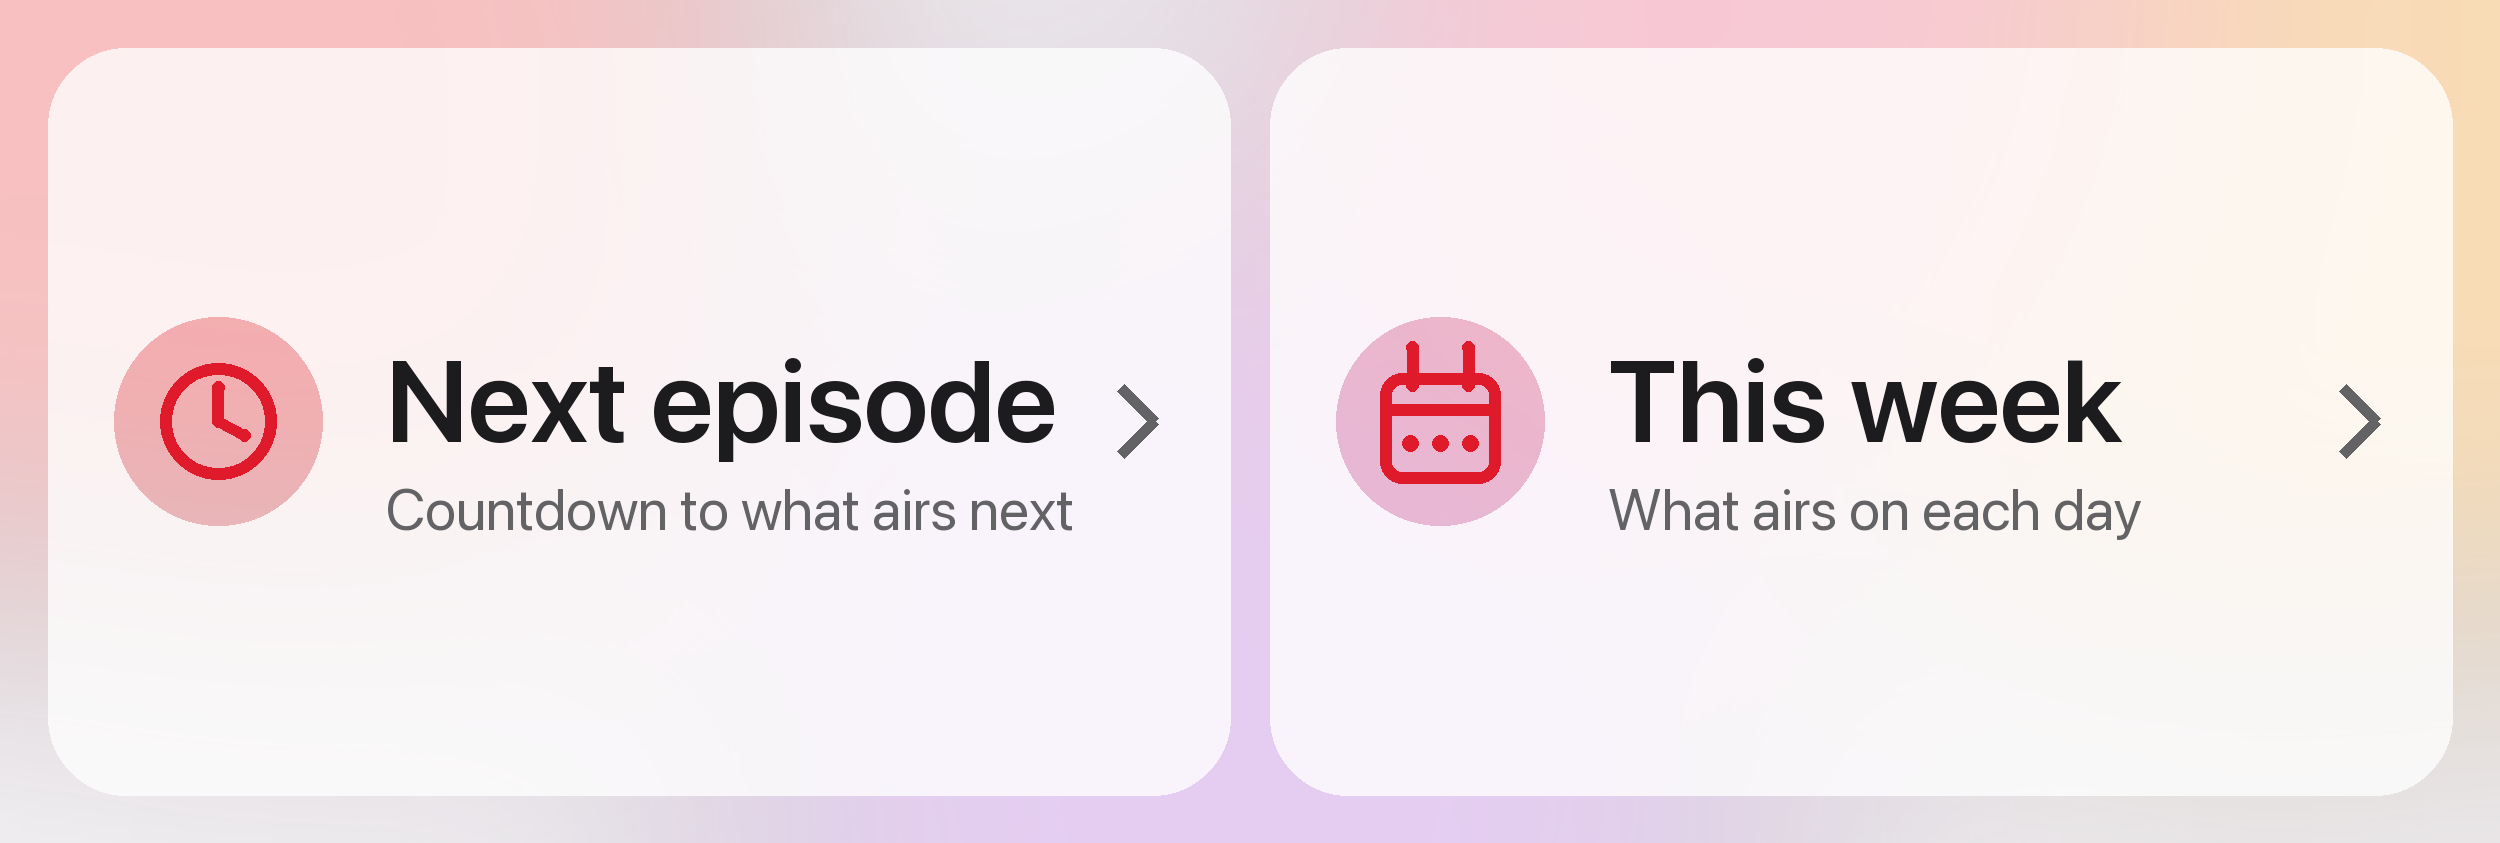
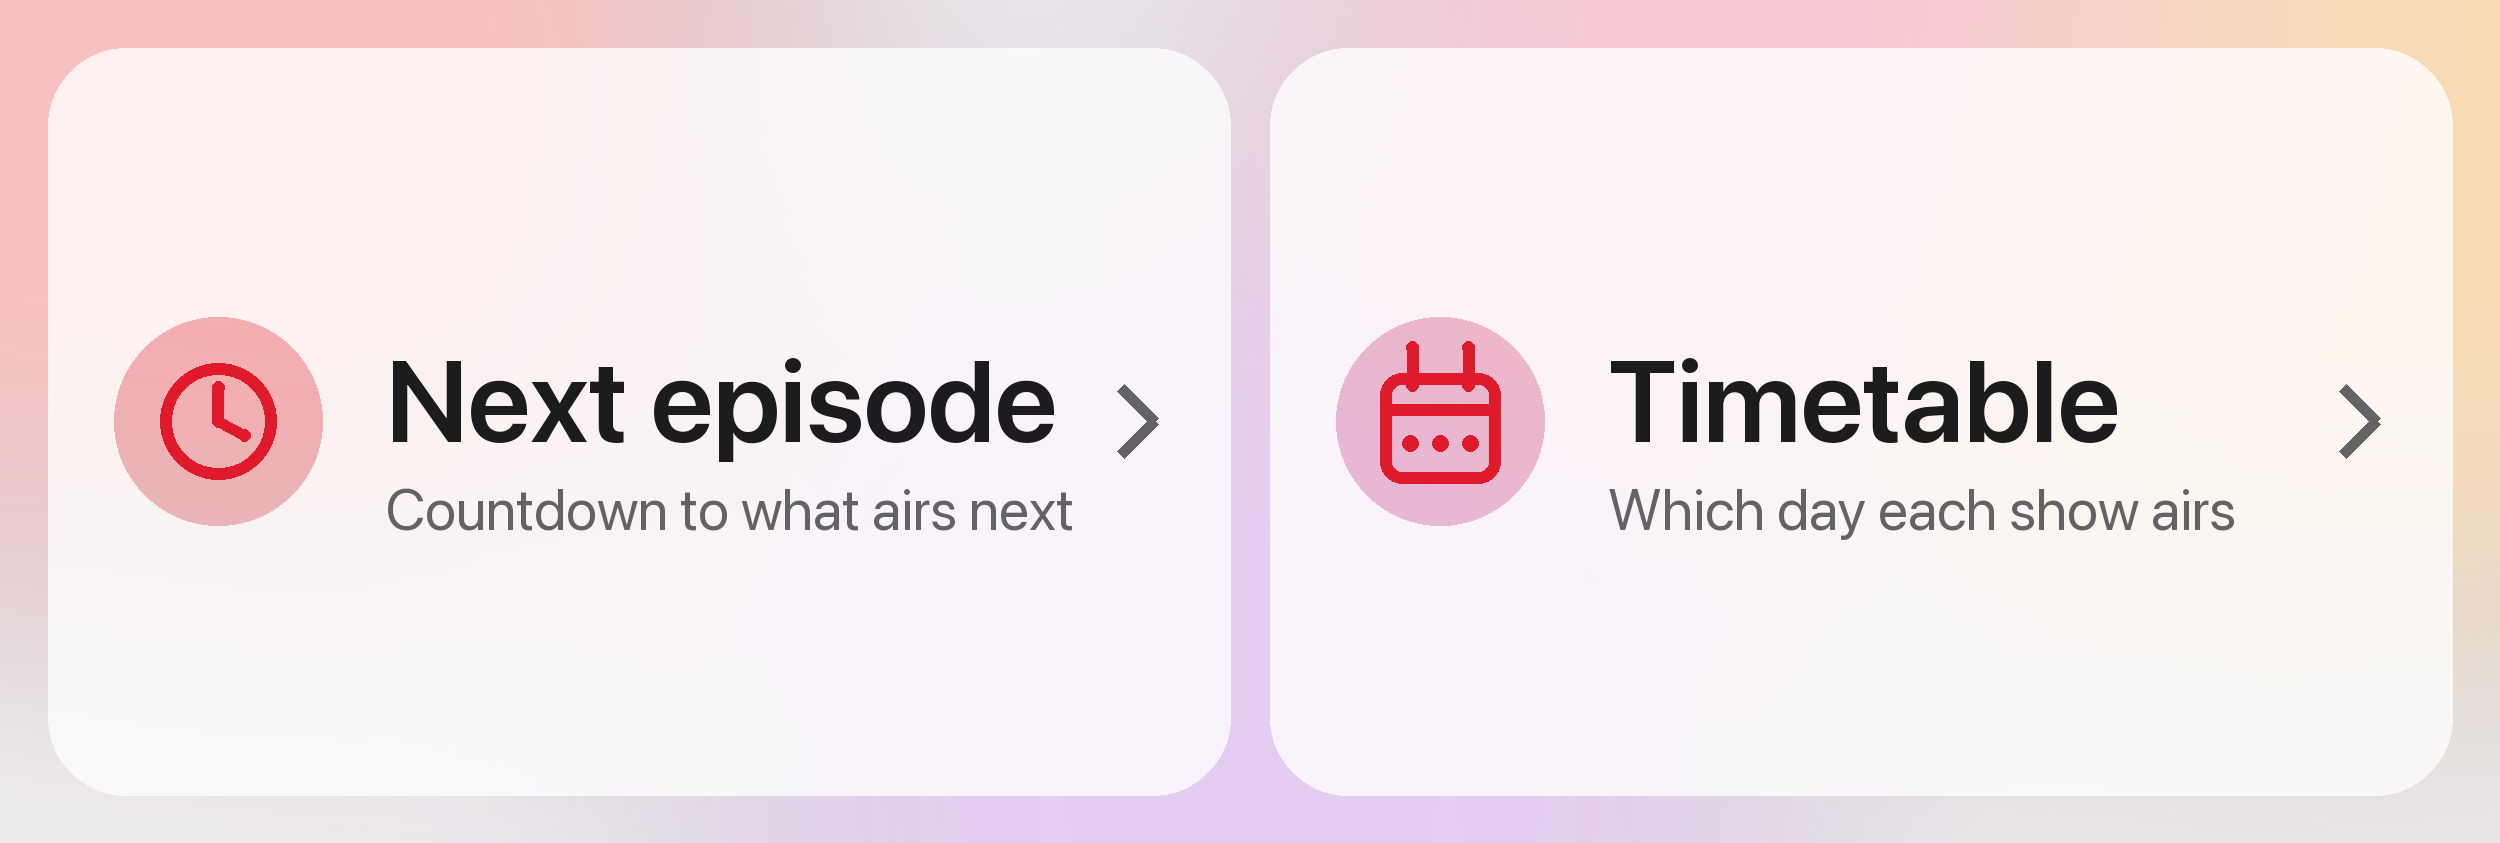
LINE menu: Next episode opens the countdown, Timetable opens the weekly timetable

Changed region(s): [[0.6552, 0.4318, 0.8736, 0.5243], [0.6552, 0.586, 0.9048, 0.6477]]

diff --git a/watch.py b/watch.py
@@ -262,8 +262,8 @@ def setup_richmenu():
 
     site = "https://isaraapae.github.io/manga-watch/"
     menu = {"size": {"width": 2500, "height": 843}, "selected": True, "name": "Alert Watch", "chatBarText": "Anime schedule",
-            "areas": [{"bounds": {"x": 0, "y": 0, "width": 1250, "height": 843}, "action": {"type": "uri", "label": "Next episode", "uri": site + "#next-up"}},
-                      {"bounds": {"x": 1250, "y": 0, "width": 1250, "height": 843}, "action": {"type": "uri", "label": "This week", "uri": site + "#week"}}]}
+            "areas": [{"bounds": {"x": 0, "y": 0, "width": 1250, "height": 843}, "action": {"type": "uri", "label": "Next episode", "uri": site}},
+                      {"bounds": {"x": 1250, "y": 0, "width": 1250, "height": 843}, "action": {"type": "uri", "label": "Timetable", "uri": site + "?v=week"}}]}
     old = [m["richMenuId"] for m in call("GET", "https://api.line.me/v2/bot/richmenu/list")["richmenus"] if m["name"] == "Alert Watch"]
     rid = call("POST", "https://api.line.me/v2/bot/richmenu", json.dumps(menu).encode())["richMenuId"]
     call("POST", f"https://api-data.line.me/v2/bot/richmenu/{rid}/content", (HERE / "richmenu.png").read_bytes(), "image/png")
